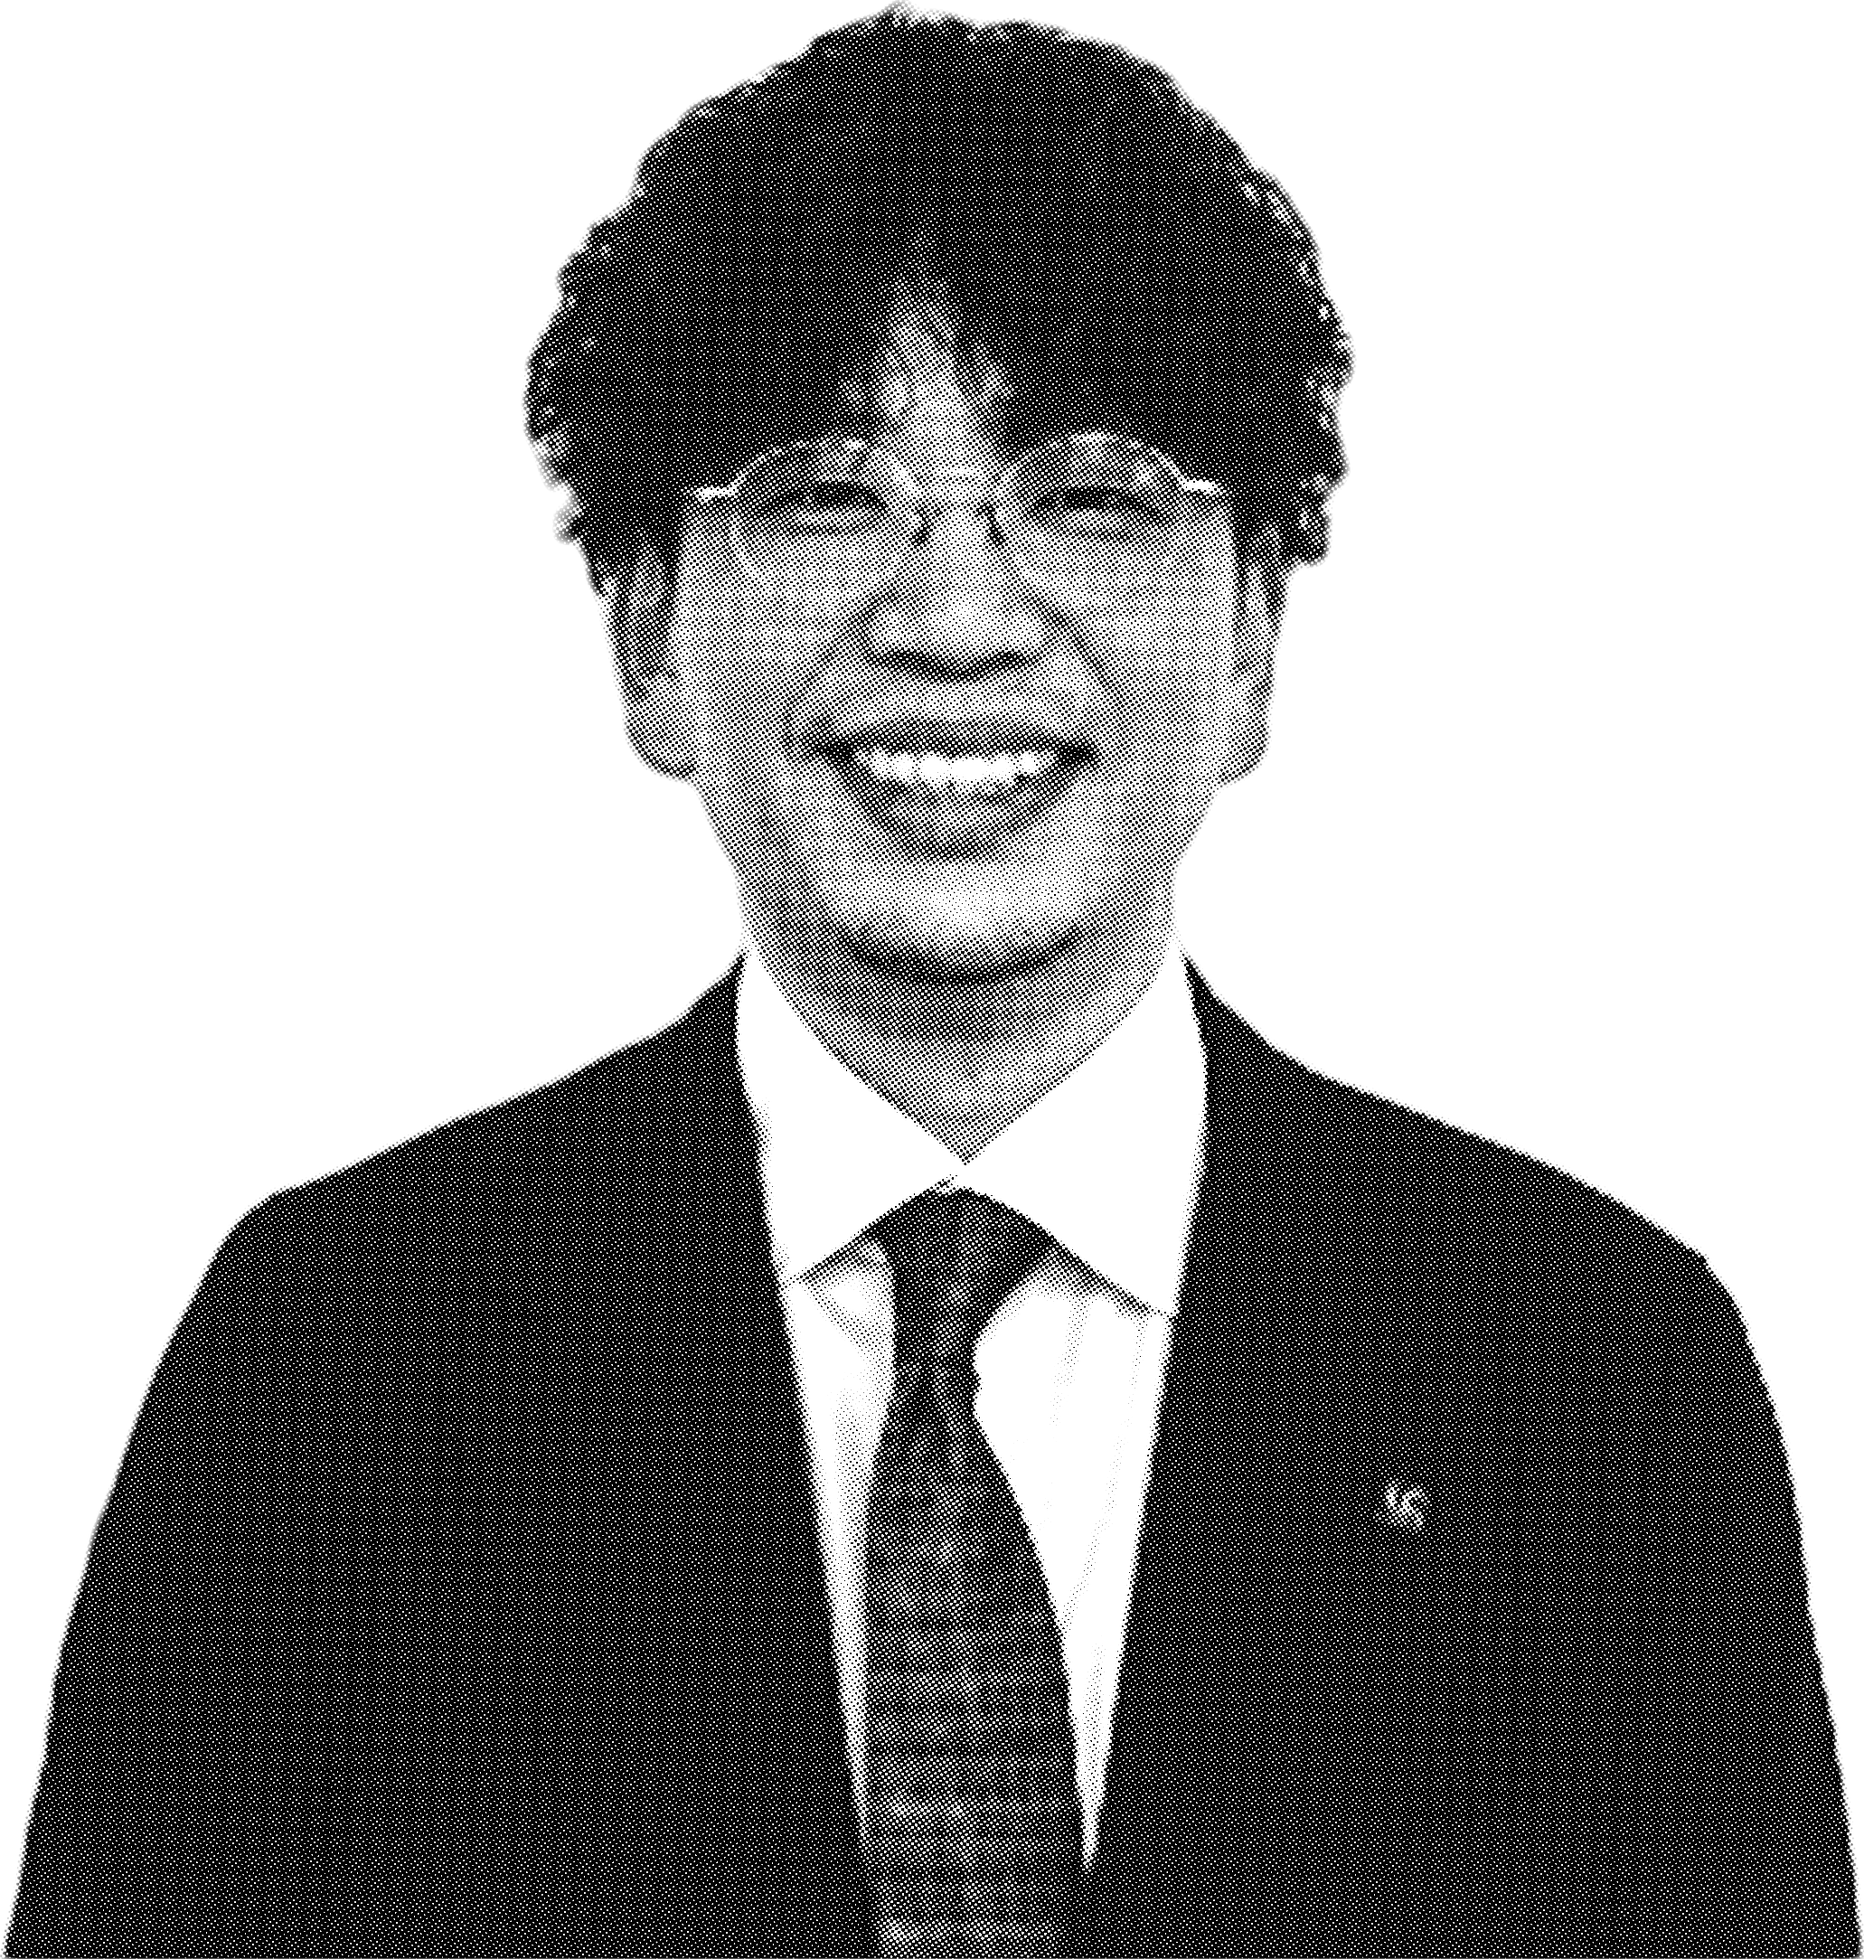
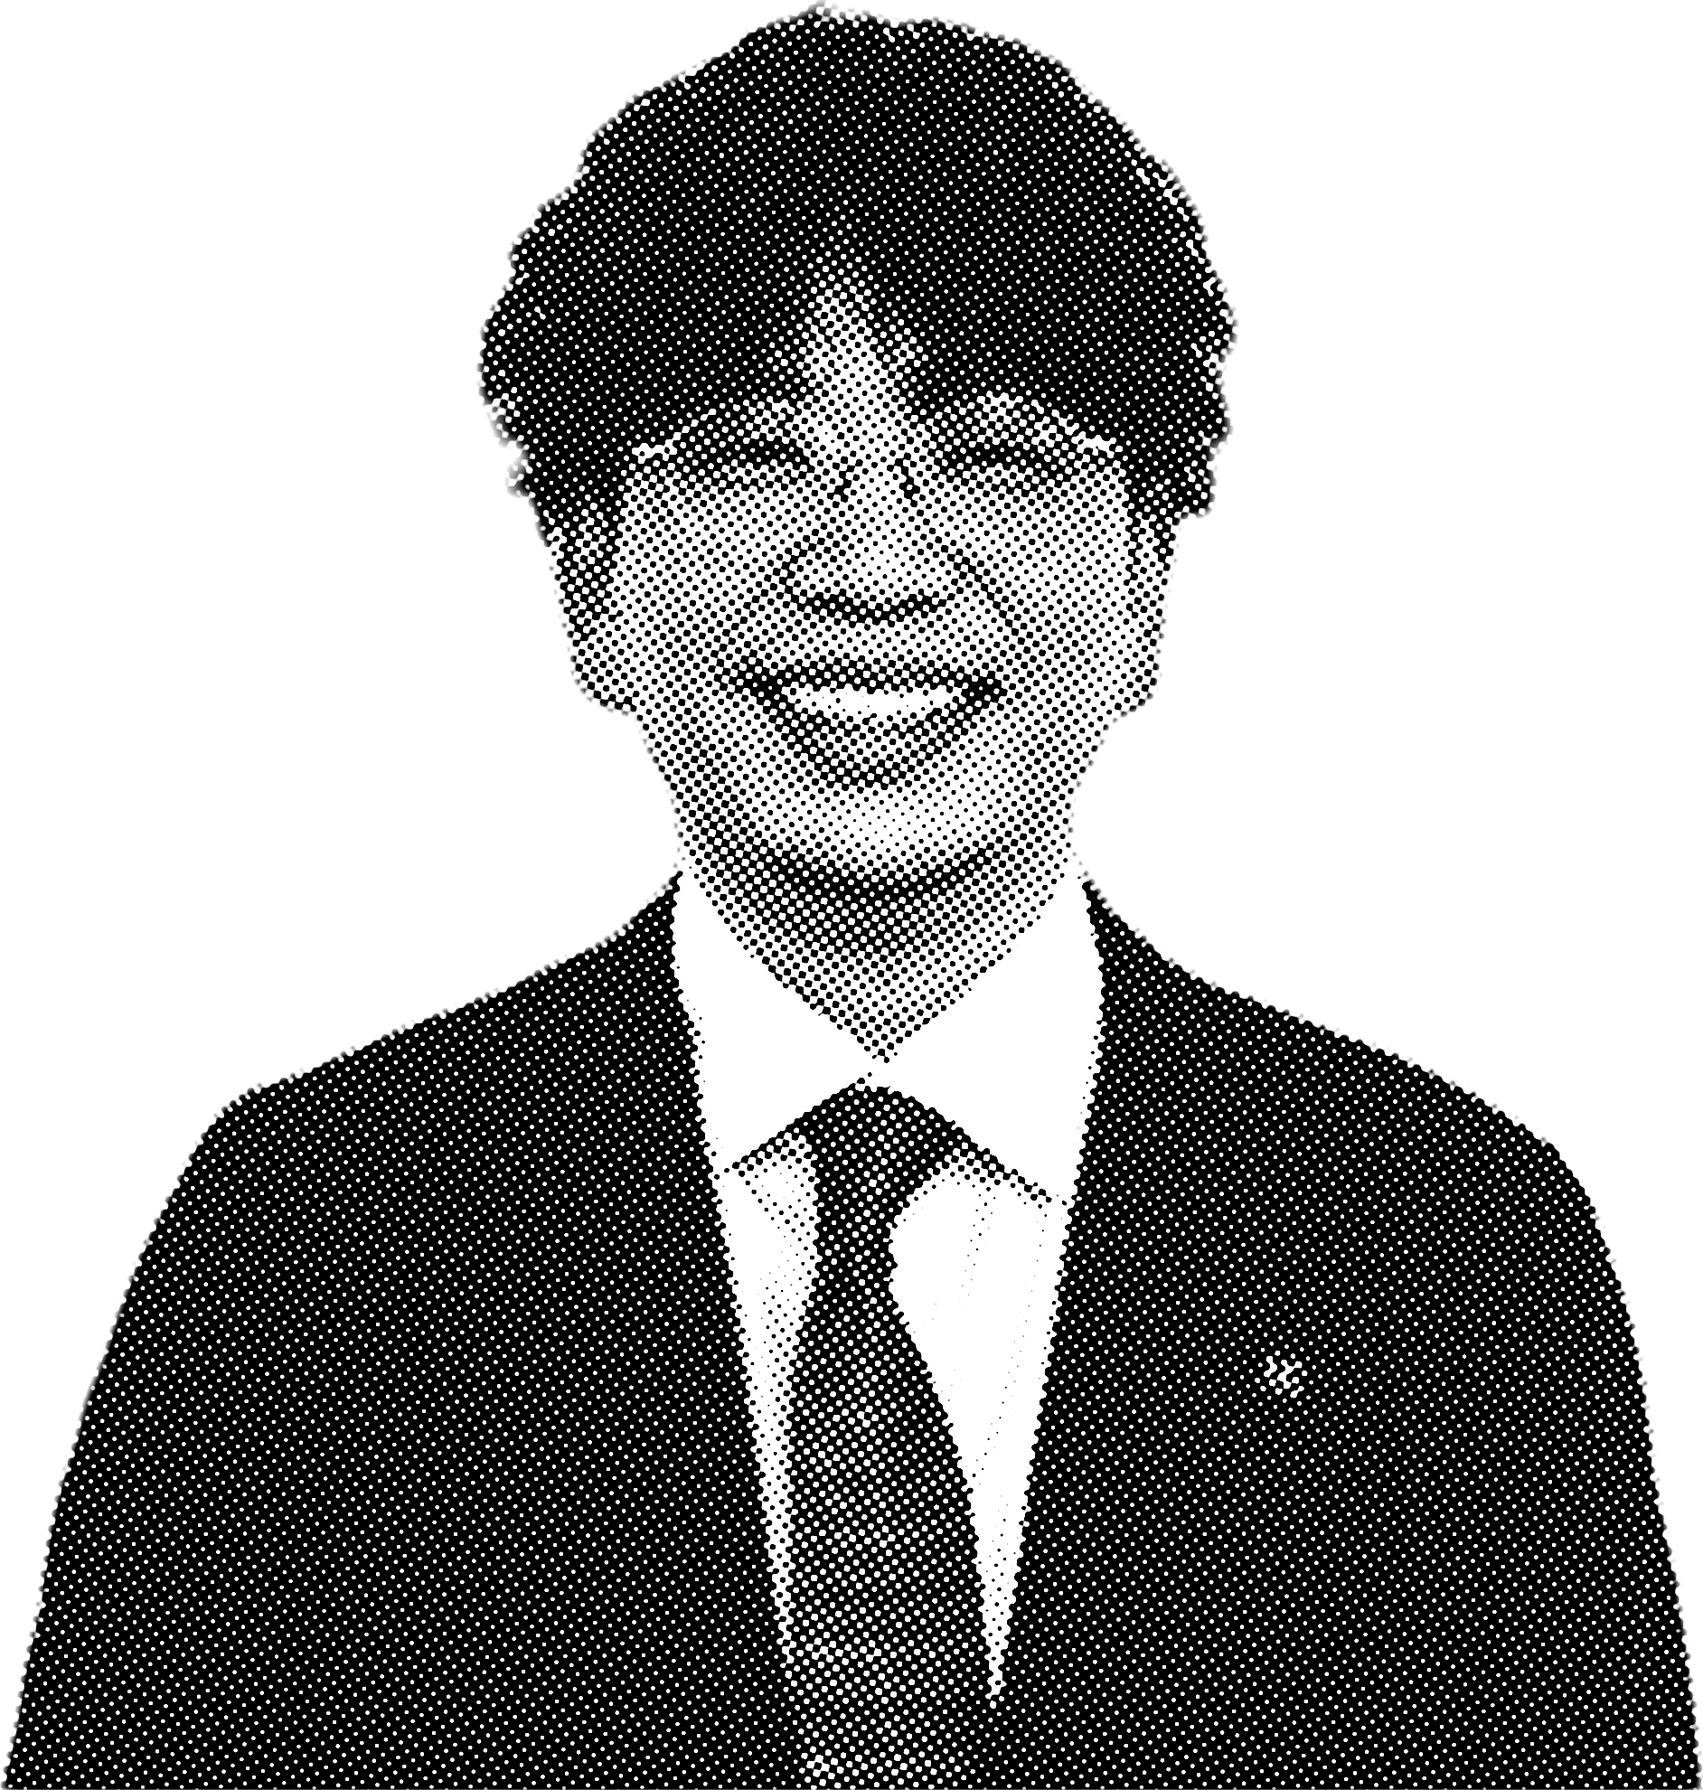
LC building recruit: regenerate halftone cutouts at display resolution, put the 3 next to its unit
Claude-Session: https://claude.ai/code/session_01PU7hF1a7skNs7hCwXm6qFD

Changed region(s): [[0.0, 0.0, 1.0, 1.0]]

diff --git a/public/lc-building-test/style.css b/public/lc-building-test/style.css
@@ -224,3 +224,8 @@ main h2{ padding-right:62px; font-size:30px }
 .y .band{ position:absolute; left:0; right:0; bottom:0; height:calc(var(--u)*58); margin:0; z-index:5; background:var(--gold); color:var(--ink); display:flex; align-items:center; justify-content:center; gap:calc(var(--u)*6); font-size:calc(var(--u)*17); font-weight:800; letter-spacing:.04em; white-space:nowrap }
 .y .band i{ font-style:normal; font-weight:400 }
 .y .band span{ margin-left:calc(var(--u)*8); padding:calc(var(--u)*3) calc(var(--u)*9) calc(var(--u)*2); background:var(--ink); color:#fff; font-size:calc(var(--u)*14); letter-spacing:.12em }
+
+/* 2026-11-28 はじめての人へ：「3」を「か月の研修」のすぐ左に並べる（3だけ離さない） */
+#first .jbig.n3{ left:-2px; bottom:-196px; font-size:112px; display:flex; align-items:baseline; gap:8px; white-space:nowrap }
+#first .jbig.n3 small{ position:static; margin:0; font-size:24px; letter-spacing:.04em }
+#first .jv + .tx{ margin-top:232px }
